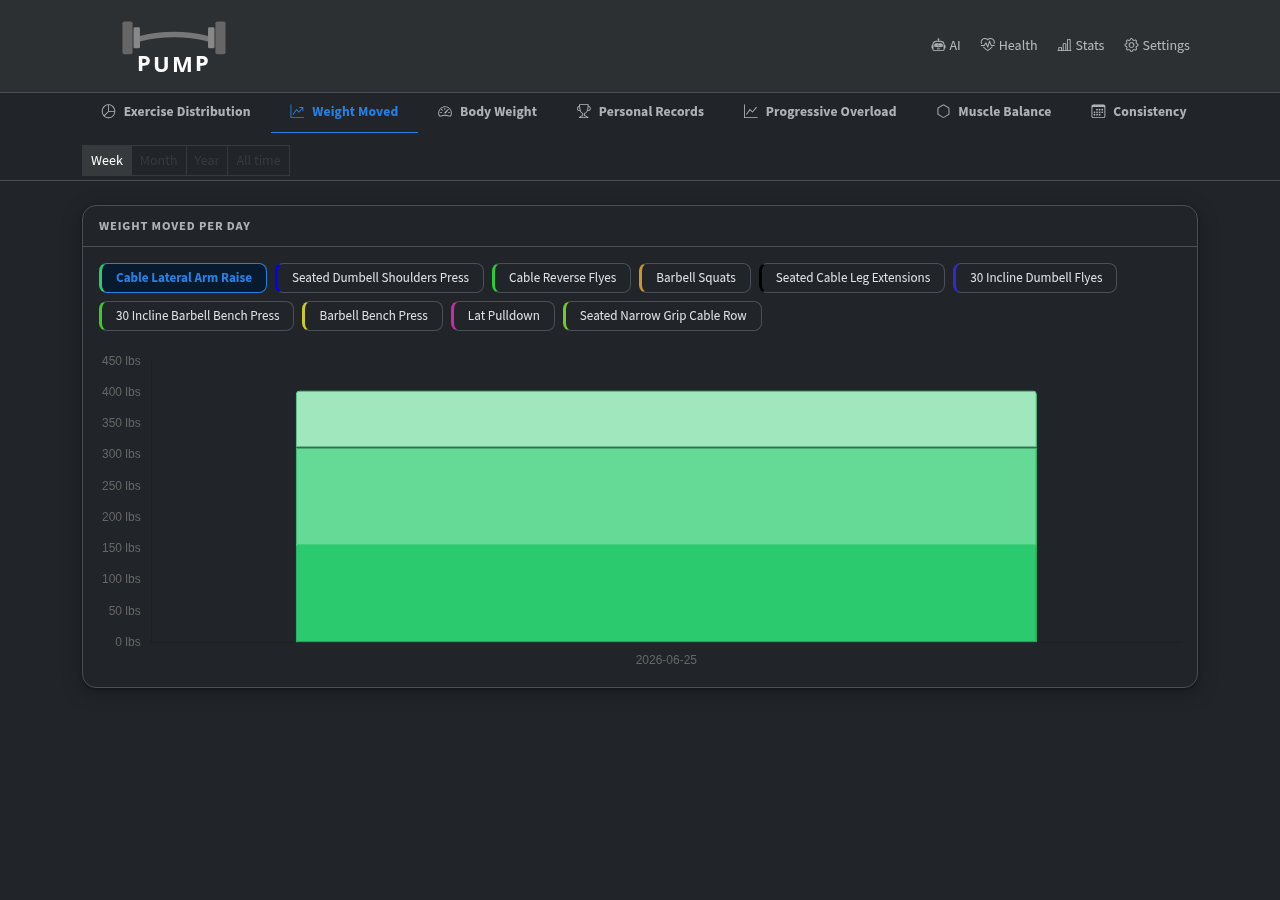
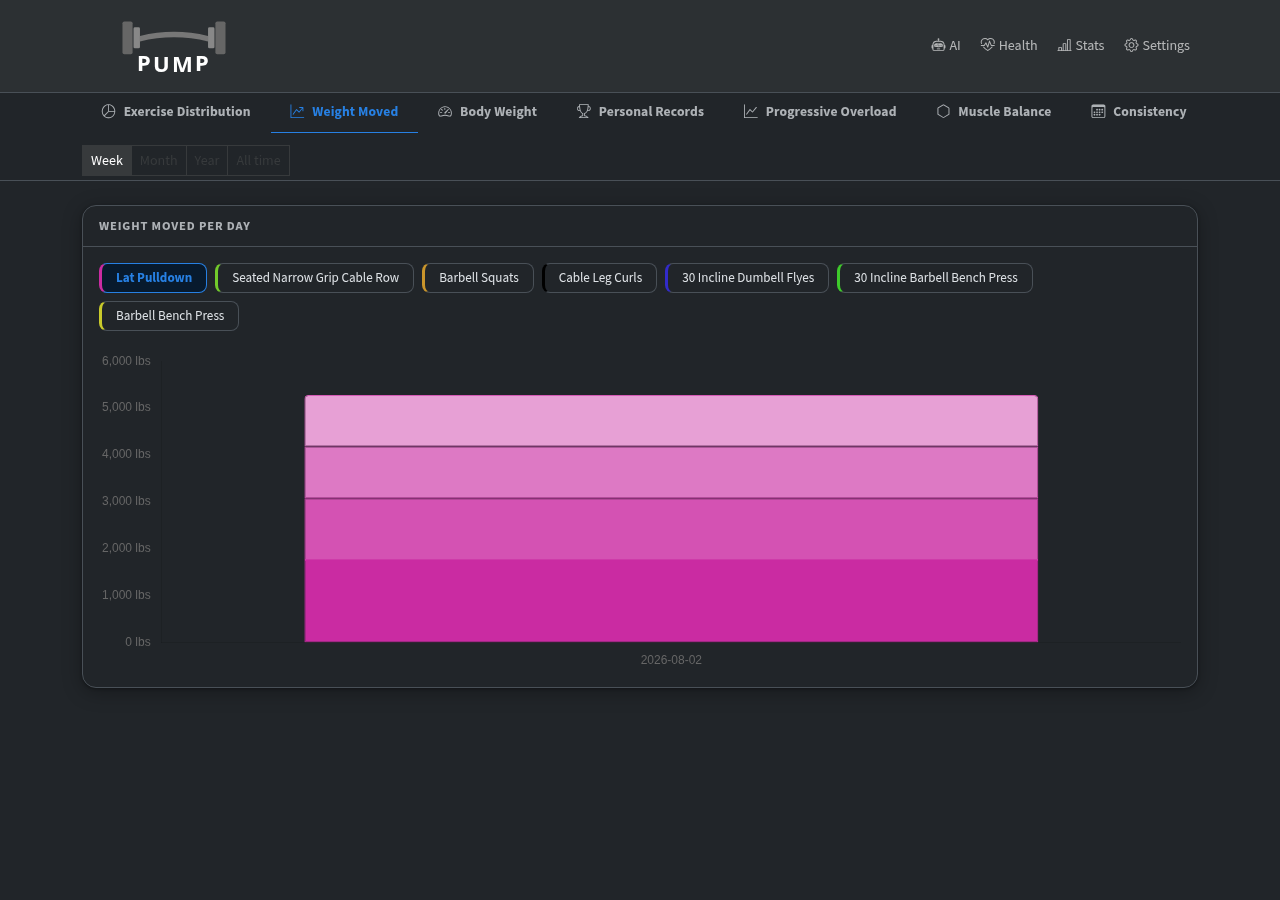
chore: pre-tag ritual for pump-v0.0.107
Screenshot set goes from 11 to 15. Four stats tabs — Personal Records,
Progressive Overload, Consistency and Recovery — shipped in e03a2e7 back in May
2026 and went three releases (v0.0.104, .105, .106) without ever being
screenshotted, because AGENTS.md's list was treated as authoritative instead of
being checked against the template. The audit is what caught it; AGENTS.md now
carries the grep that enumerates tabs from stats.html so the list cannot drift
silently again.

All 15 regenerated at 1280x900 against a clean restore of the production dump.
screenshot-config.png and screenshot-stats-hr.png came out byte-identical and
are unchanged: the settings page gained no Voltra control (VOLTRA_AUTOLOG is
env-only), and the HR tab has no data to render.

The workout page is now shot on a day that actually has sets. It defaults to
today, which was empty, and the previous capture only looked right because it
happened to be taken on a training day. AGENTS.md records the sessionStorage
trick and the query for picking the day.

README audit found one genuine gap: PUMP_CLIPS_DIR is read at
cmd/pump/main.go:134 and documented in that file's header comment, but was
missing from the environment table. Added, along with a pump-voltra
configuration subsection mirroring the pump-cv one, and VOLTRA_ENABLED in the
pump-cv table since it governs both sides.

Dead-code scan found nothing to remove: no unreferenced JS functions, no unused
[…]

diff --git a/README.md b/README.md
@@ -19,9 +19,13 @@
 |---|---|---|
 | ![Stats Steps](assets/screenshot-stats-steps.png) | ![Stats Heart Rate](assets/screenshot-stats-hr.png) | ![Stats Sleep](assets/screenshot-stats-sleep.png) |
 
-| Stats: Cardio | Stats: Muscle Balance | |
+| Stats: Cardio | Stats: Muscle Balance | Stats: Personal Records |
 |---|---|---|
-| ![Stats Cardio](assets/screenshot-stats-cardio.png) | ![Stats Muscle Balance](assets/screenshot-stats-balance.png) | |
+| ![Stats Cardio](assets/screenshot-stats-cardio.png) | ![Stats Muscle Balance](assets/screenshot-stats-balance.png) | ![Stats Personal Records](assets/screenshot-stats-prs.png) |
+
+| Stats: Progressive Overload | Stats: Consistency | Stats: Recovery |
+|---|---|---|
+| ![Stats Progressive Overload](assets/screenshot-stats-overload.png) | ![Stats Consistency](assets/screenshot-stats-consistency.png) | ![Stats Recovery](assets/screenshot-stats-recovery.png) |
 
 - [Architecture](#architecture)
 - [Configuration](#configuration)
@@ -99,6 +103,7 @@ All configuration is via environment variables. No config file is required.
 | `PUSHOVER_API_URL` | Pushover API endpoint override (testing only) | Pushover |
 | `PUBLIC_URL` | Externally-reachable PUMP base URL; used to build deep-links in notifications | `""` |
 | `PUMP_CV_URL` | Where to forward reference-clip uploads (e.g. `http://pump-cv:8080`); empty disables the in-browser recorder | `""` |
+| `PUMP_CLIPS_DIR` | Local directory of per-set clip mp4s written by `pump-cv` (shared volume), served at `/clips/`; empty disables clip serving | `""` |
 | `NODE_PATH` | Path to local `node_modules` directory; empty = use CDN for Bootstrap/Chart.js | `""` |
 | `TREADMILL_MQTT_ENABLED` | Enable treadmill cardio auto-capture: subscribe to the smart-plug wattage feed `zwave-js-ui` publishes to MQTT, detect each workout, and log it as a cardio session (no Home Assistant in the path). | `false` |
 | `TREADMILL_MQTT_BROKER` | MQTT broker URL, e.g. `tcp://emqx-headless.home.svc.cluster.local:1883` | `""` |
@@ -134,7 +139,32 @@ Reads its configuration from a yaml file (mounted as a Kubernetes ConfigMap, def
 | `PUMP_CV_SNAPSHOT_DIR` | Where annotated debug snapshots are written per detected set | `snapshots` |
 | `PUMP_CV_HEALTHD_PORT` | Listen port for `/healthz`, `/readyz`, `/metrics`, and `POST /api/v1/reference` | `8080` |
 | `CV_CONFIDENCE_THRESHOLD` | Override the cutoff for marking a CV-detected set pending | yaml value |
+| `VOLTRA_ENABLED` | When true, `pump-voltra` owns sets for Voltra-flagged exercises and `pump-cv` writes none of them | `false` |
 | `LOG_LEVEL` | `debug` / `info` / `warn` / `error` | `info` |
+
+### `pump-voltra` (optional trainer sidecar)
+
+A separate Python service under [`voltra/`](voltra/) that reads set number, rep count and target load off a **Beyond Power VOLTRA I** cable trainer over BLE — via an ESPHome `bluetooth_proxy` — and logs each set automatically. The trainer's resistance is electronic and invisible to plate detection, so without it every Voltra set needs its weight typed in by hand.
+
+Which exercises use the trainer is a per-exercise checkbox ("Uses Voltra trainer") on the exercise configuration page. Set names are inherited from the day's most recent set for a flagged exercise. Read-only: it issues no motor commands.
+
+Disabled by default — set `VOLTRA_AUTOLOG=true` on PUMP and `VOLTRA_ENABLED=true` on the sidecar. Same yaml + env-override pattern as `pump-cv`. See [`voltra/README.md`](voltra/README.md).
+
+| Variable | Description | Default |
+|---|---|---|
+| `VOLTRA_ENABLED` | Master switch; false disables all BLE activity | `false` |
+| `VOLTRA_ADDRESS` | Trainer BLE MAC; **secret, not in yaml** | `""` |
+| `VOLTRA_PROXY_HOST` | ESPHome `bluetooth_proxy` hostname | `""` |
+| `VOLTRA_PROXY_PSK` | ESPHome API Noise key; **secret, not in yaml** | `""` |
+| `VOLTRA_DEFAULT_EXERCISE` | Name used when no flagged set exists yet today (written `pending`) | `Voltra` |
+| `VOLTRA_EXERCISE_REFRESH_SECONDS` | How often to re-read which exercises carry the flag | `300` |
+| `VOLTRA_SET_IDLE_SECONDS` | Fallback set-completion timeout, used only if the device's end-of-set summary is lost | `30` |
+| `VOLTRA_LOAD_POLL_SECONDS` | Target-load poll interval | `5` |
+| `PUMP_API_BASE_URL` | PUMP base URL | `http://pump-api:8851` |
+| `PUMP_API_KEY` | Sent as `X-Api-Key`; **secret, not in yaml** | `""` |
+| `PUMP_VOLTRA_CONFIG` | Path to the yaml config | `configs/default.yaml` |
+
+Run **one replica with `strategy: Recreate`** — the trainer accepts a single BLE central, so two replicas would fight over the connection.
 
 #### Architecture sketch
 

diff --git a/AGENTS.md b/AGENTS.md
@@ -77,13 +77,37 @@ Take fresh screenshots of every page and tab at 1280×900 using the running prev
 - `screenshot-stats-overview.png` — Stats › Exercise Distribution tab (`/stats/`)
 - `screenshot-stats-activity.png` — Stats › Weight Moved tab (click `#tab-activity-btn`)
 - `screenshot-stats-weight.png` — Stats › Body Weight tab (click `#tab-weight-btn`)
+- `screenshot-stats-prs.png` — Stats › Personal Records tab (click `#tab-prs-btn`)
+- `screenshot-stats-overload.png` — Stats › Progressive Overload tab (click `#tab-overload-btn`)
 - `screenshot-stats-balance.png` — Stats › Muscle Balance tab (click `#tab-balance-btn`)
+- `screenshot-stats-consistency.png` — Stats › Consistency tab (click `#tab-consistency-btn`)
+- `screenshot-stats-recovery.png` — Stats › Recovery tab (click `#tab-recovery-btn`)
 - `screenshot-stats-steps.png` — Stats › Steps tab (click `#tab-steps-btn`)
 - `screenshot-stats-hr.png` — Stats › Heart Rate tab (click `#tab-hr-btn`)
 - `screenshot-stats-sleep.png` — Stats › Sleep tab (click `#tab-sleep-btn`)
 - `screenshot-stats-cardio.png` — Stats › Cardio tab (click `#tab-cardio-btn`)
 
 Shoot against a clean restore of the production dump — never against a database that test writes have touched. If a tab is added or removed, update this list and the README table to match.
+
+**Verify the list against the UI, don't trust it.** Enumerate the tabs from the
+template rather than assuming this list is current:
+
+```
+grep -o 'id="tab-[a-z]*-btn"' internal/web/templates/stats.html | sort -u
+```
+
+Four tabs (Personal Records, Progressive Overload, Consistency, Recovery)
+shipped in May 2026 and went three releases without a screenshot because the
+list was treated as authoritative.
+
+**Shoot the workout page on a day that has sets.** It defaults to today, which
+is usually empty and makes a poor first impression in the README. Set
+`sessionStorage["today"]` to a recent training day before capturing, and pick
+the day from the data:
+
+```sql
+SELECT date, count(*) FROM sets GROUP BY date ORDER BY date DESC LIMIT 5;
+```
 
 #### 2. Audit and update the README
 
